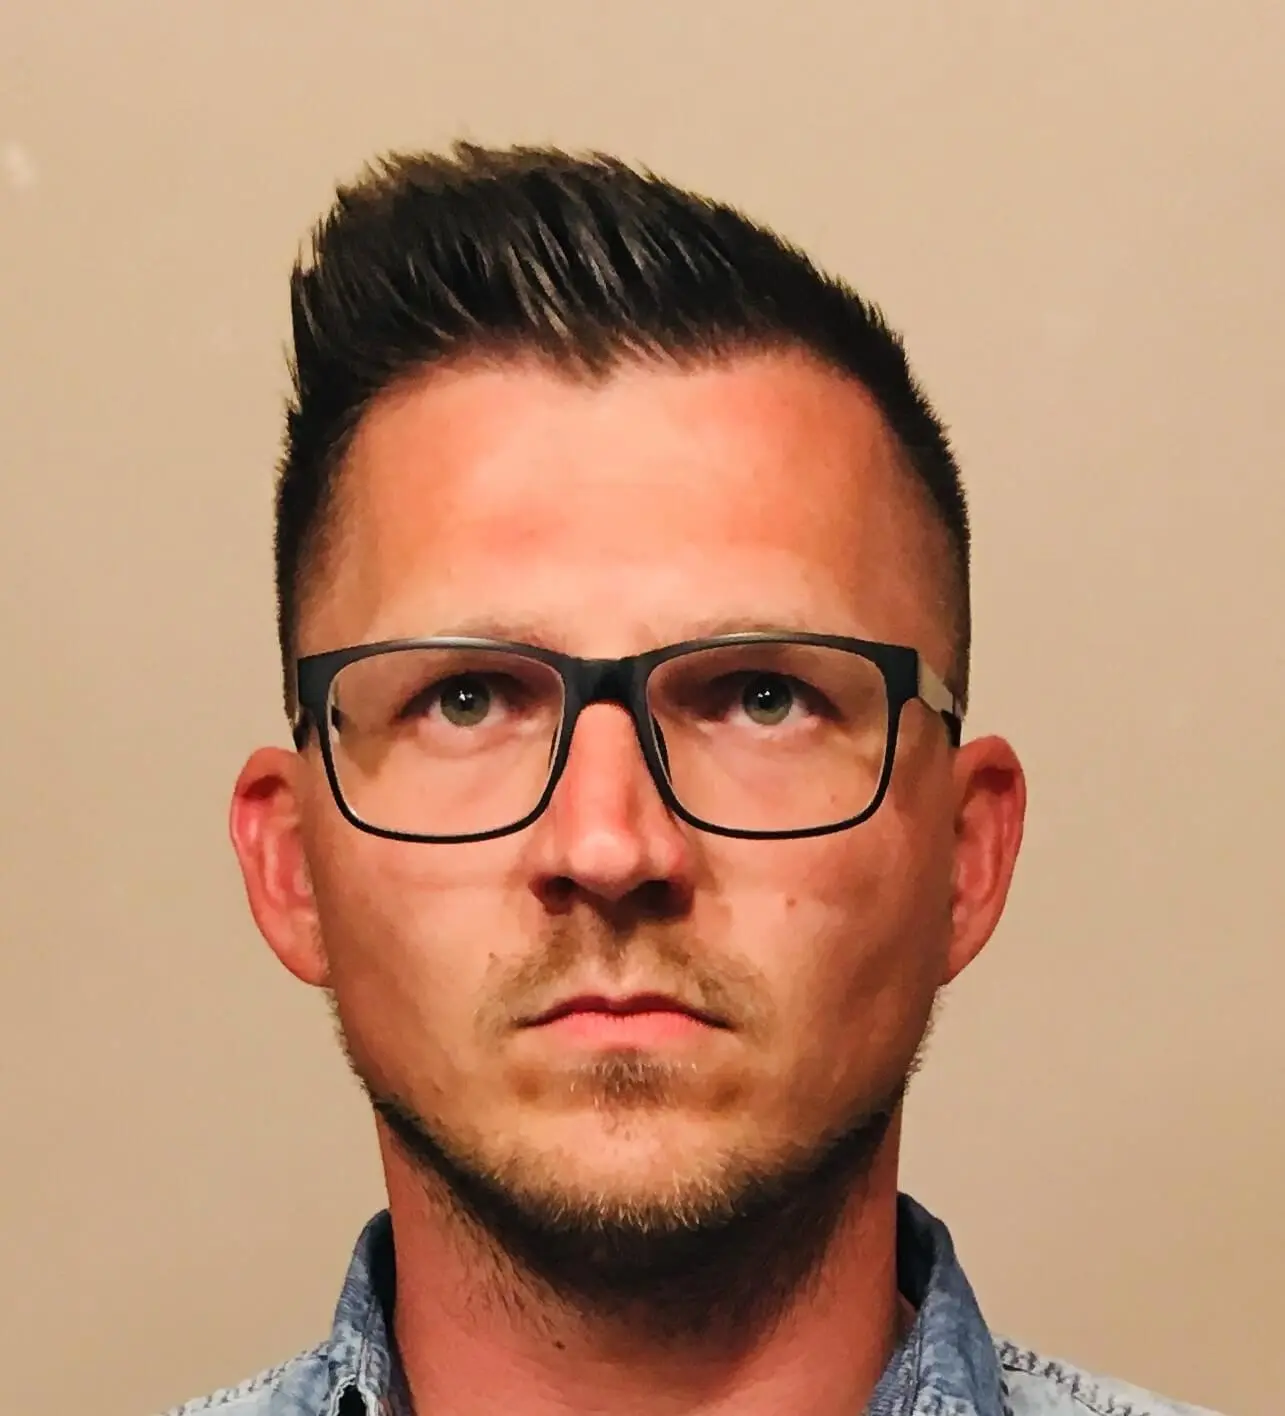
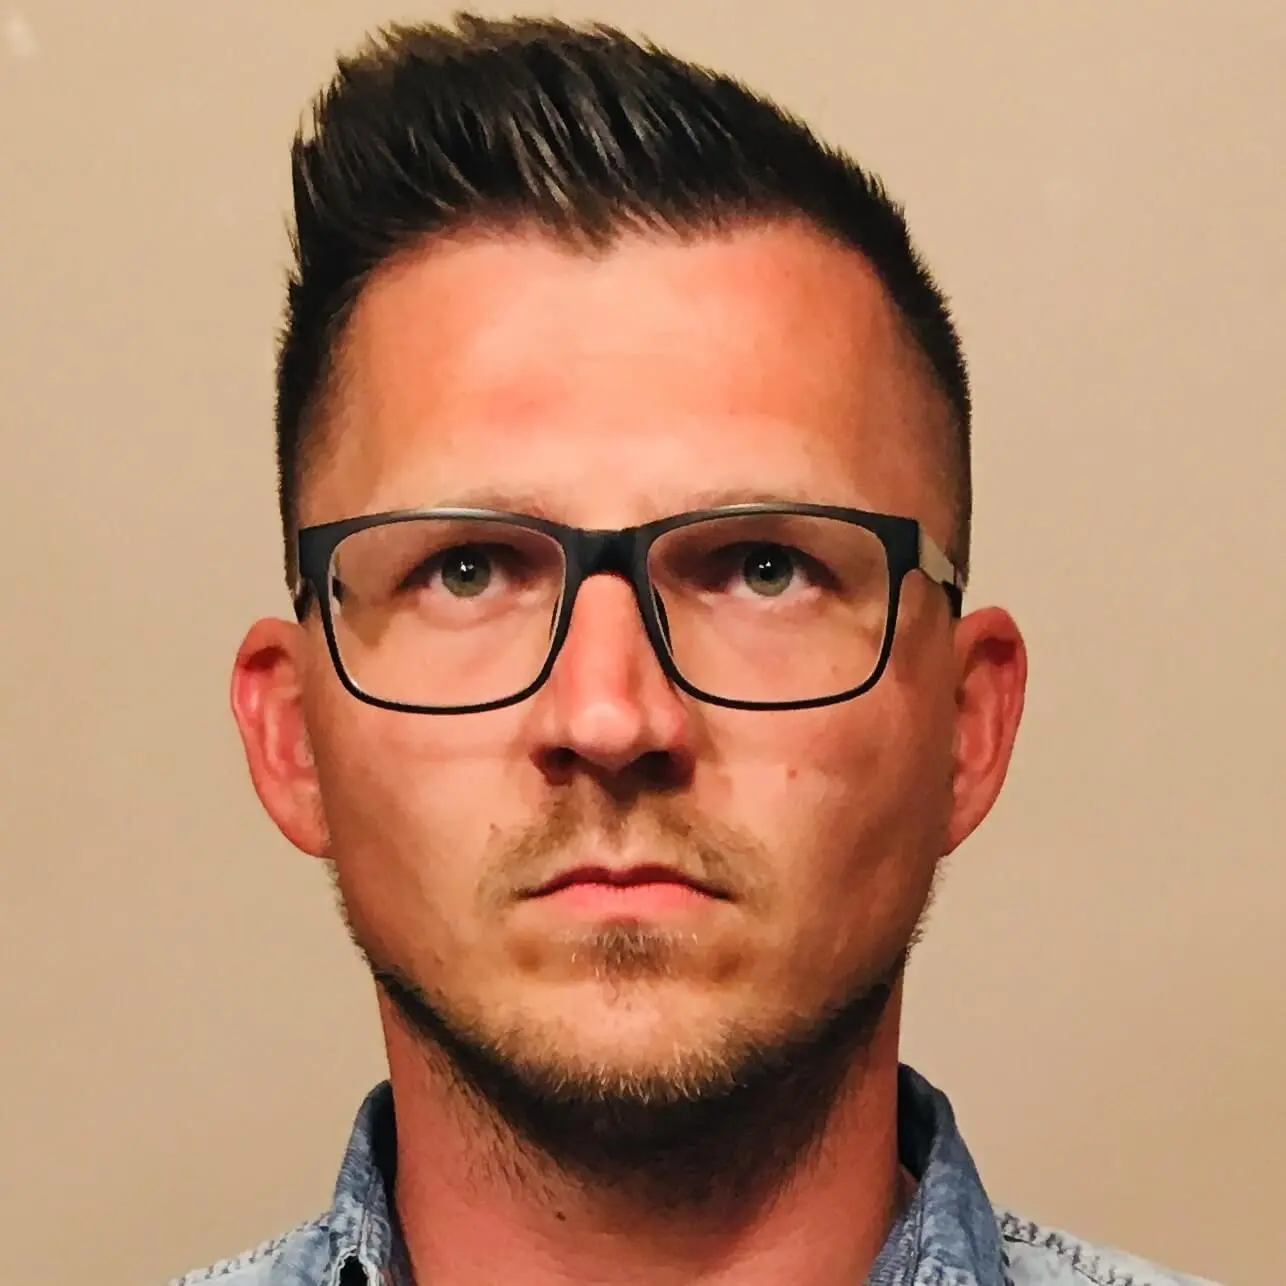
styled AboutMe

Changed region(s): [[0.1556, 0.0, 0.8405, 1.0], [0.5914, 0.902, 0.6226, 0.9331]]

diff --git a/src/pages/aboutMe/AboutMe.jsx b/src/pages/aboutMe/AboutMe.jsx
@@ -1,7 +1,7 @@
 import React from 'react';
 
 // assets
-import profilePhoto from '../../assets/images/profile-photo.webp';
+import profilePhoto from '../../assets/profile-photo.webp';
 
 // styles
 import './AboutMe.css';
@@ -11,14 +11,18 @@ export const AboutMe = () => {
     <div className="AboutMe">
       <div className="profile-card">
         <div className="head-container">
-          <img src={profilePhoto} alt="profile" />
+          <img className="profile-photo" src={profilePhoto} alt="profile" />
           <h1 className="profile-name">András Rajkai</h1>
+          <h4 className="profession">Frontend Developer</h4>
         </div>
+        <div className="social-icons">
+          <i class="fa-brands fa-linkedin"></i>
+          <i class="fa-solid fa-envelope"></i>
+        </div>
+        <hr />
         <div className="content">
           <p>
-            I have always loved computer science. You know, I was the friend
-            next door who always reinstalled his friends operating system and
-            repaired their PC if something went wrong. I must have been thirteen
+            I have always loved computer science. I must have been thirteen
             years old, when I sorted the computer parts myself and built my
             first computer alone. My whole childehood was spent under the spell
             of computer science. Not only computer games intrested me, but also
@@ -49,13 +53,13 @@ export const AboutMe = () => {
             frontend development course at CodeCool. I just loved every moment
             of it.
           </p>
-          <p>
+          <p className="highlighted-text">
             I'm currently looking to contribute my skills to a team where I can
             prove my skills while growing in my capabilities. If you are looking
-            for a competent, highly-motivated developer, contact me. You can
-            reach me at rajkaiandras@gmail.com or here on LinkedIn."
+            for a competent, highly-motivated developer, contact me.
           </p>
         </div>
+        <p className="signature">András Rajkai</p>
       </div>
     </div>
   );

diff --git a/src/pages/aboutMe/AboutMe.css b/src/pages/aboutMe/AboutMe.css
@@ -1,9 +1,89 @@
+@import url("https://fonts.googleapis.com/css2?family=Ms+Madi&display=swap");
 .AboutMe {
-  font-size: 30px;
-  color: white;
   background-color: #2c2c2c;
   display: flex;
   justify-content: center;
   align-items: center;
   flex-grow: 1;
+}
+.AboutMe .profile-card {
+  width: 800px;
+  border-radius: 8px;
+  margin: 200px 0 50px;
+  background-color: #151515;
+  position: relative;
+}
+.AboutMe .profile-card .head-container {
+  width: 100%;
+  padding-top: 150px;
+  text-align: center;
+}
+.AboutMe .profile-card .head-container .profile-photo {
+  width: 240px;
+  border-radius: 50%;
+  margin-bottom: 30px;
+  position: absolute;
+  top: -120px;
+  left: calc(50% - 120px);
+  transition: all 500ms ease-in-out;
+}
+.AboutMe .profile-card .head-container .profile-photo:hover {
+  transform: scale(1.1);
+  filter: grayscale(0.7);
+}
+.AboutMe .profile-card .head-container .profile-name {
+  font-size: 30px;
+  font-weight: 300;
+  color: red;
+  margin-bottom: 10px;
+}
+.AboutMe .profile-card .head-container .profession {
+  color: gray;
+  font-weight: 700;
+  letter-spacing: 3px;
+}
+.AboutMe .profile-card .social-icons {
+  width: 100%;
+  text-align: center;
+}
+.AboutMe .profile-card .social-icons i {
+  font-size: 30px;
+  color: lightgrey;
+  margin: 20px 30px;
+}
+.AboutMe .profile-card .social-icons .fa-linkedin:hover {
+  color: blue;
+}
+.AboutMe .profile-card .social-icons .fa-envelope:hover {
+  color: white;
+}
+.AboutMe .profile-card hr {
+  width: 75%;
+  height: 2px;
+  border: none;
+  background-color: gray;
+}
+.AboutMe .profile-card .content {
+  width: 85%;
+  margin: 50px auto 30px;
+}
+.AboutMe .profile-card .content p {
+  font-size: 18px;
+  font-weight: 300;
+  letter-spacing: 1.2px;
+  line-height: 1.5;
+  text-align: justify;
+  color: white;
+  margin-bottom: 20px;
+}
+.AboutMe .profile-card .content .highlighted-text {
+  color: red;
+  font-weight: 500;
+}
+.AboutMe .profile-card .signature {
+  font-family: "Ms Madi", cursive;
+  font-size: 40px;
+  color: white;
+  text-align: right;
+  margin: 0 100px 30px 0;
 }/*# sourceMappingURL=AboutMe.css.map */

diff --git a/src/pages/aboutMe/AboutMe.scss b/src/pages/aboutMe/AboutMe.scss
@@ -1,9 +1,106 @@
+// Google Fonts
+@import url('https://fonts.googleapis.com/css2?family=Ms+Madi&display=swap');
+
 .AboutMe {
-  font-size: 30px;
-  color: white;
   background-color: #2c2c2c;
   display: flex;
   justify-content: center;
   align-items: center;
   flex-grow: 1;
+
+  .profile-card {
+    width: 800px;
+    border-radius: 8px;
+    margin: 200px 0 50px;
+    background-color: #151515;
+    position: relative;
+
+    .head-container {
+      width: 100%;
+      padding-top: 150px;
+      text-align: center;
+
+      .profile-photo {
+        width: 240px;
+        border-radius: 50%;
+        margin-bottom: 30px;
+        position: absolute;
+        top: -120px;
+        left: calc(50% - 120px);
+        transition: all 500ms ease-in-out;
+
+        &:hover {
+          transform: scale(1.1);
+          filter: grayscale(0.7);
+        }
+      }
+
+      .profile-name {
+        font-size: 30px;
+        font-weight: 300;
+        color: red;
+        margin-bottom: 10px;
+      }
+
+      .profession {
+        color: gray;
+        font-weight: 700;
+        letter-spacing: 3px;
+      }
+    }
+
+    .social-icons {
+      width: 100%;
+      text-align: center;
+
+      i {
+        font-size: 30px;
+        color: lightgrey;
+        margin: 20px 30px;
+      }
+
+      .fa-linkedin:hover {
+        color: blue;
+      }
+
+      .fa-envelope:hover {
+        color: white;
+      }
+    }
+
+    hr {
+      width: 75%;
+      height: 2px;
+      border: none;
+      background-color: gray;
+    }
+
+    .content {
+      width: 85%;
+      margin: 50px auto 30px;
+
+      p {
+        font-size: 18px;
+        font-weight: 300;
+        letter-spacing: 1.2px;
+        line-height: 1.5;
+        text-align: justify;
+        color: white;
+        margin-bottom: 20px;
+      }
+
+      .highlighted-text {
+        color: red;
+        font-weight: 500;
+      }
+    }
+
+    .signature {
+      font-family: 'Ms Madi', cursive;
+      font-size: 40px;
+      color: white;
+      text-align: right;
+      margin: 0 100px 30px 0;
+    }
+  }
 }

diff --git a/src/components/swiperHome/SwiperHome.jsx b/src/components/swiperHome/SwiperHome.jsx
@@ -11,7 +11,7 @@ import 'swiper/css/effect-fade';
 // styles
 import './SwiperHome.css';
 
-// slide images
+// assets
 import swiperSlideImage1 from '../../assets/images/swiper/swiper-slide-bg-img-1.jpg';
 import swiperSlideImage2 from '../../assets/images/swiper/swiper-slide-bg-img-2.jpg';
 import swiperSlideImage3 from '../../assets/images/swiper/swiper-slide-bg-img-3.jpg';

diff --git a/src/pages/userProfile/UserProfile.jsx b/src/pages/userProfile/UserProfile.jsx
@@ -1,8 +1,5 @@
 import React from 'react';
 
-// assets
-import profilePhoto from '../../assets/images/';
-
 // hooks
 import { useAuthContext } from '../../hooks/useAuthContext';
 
